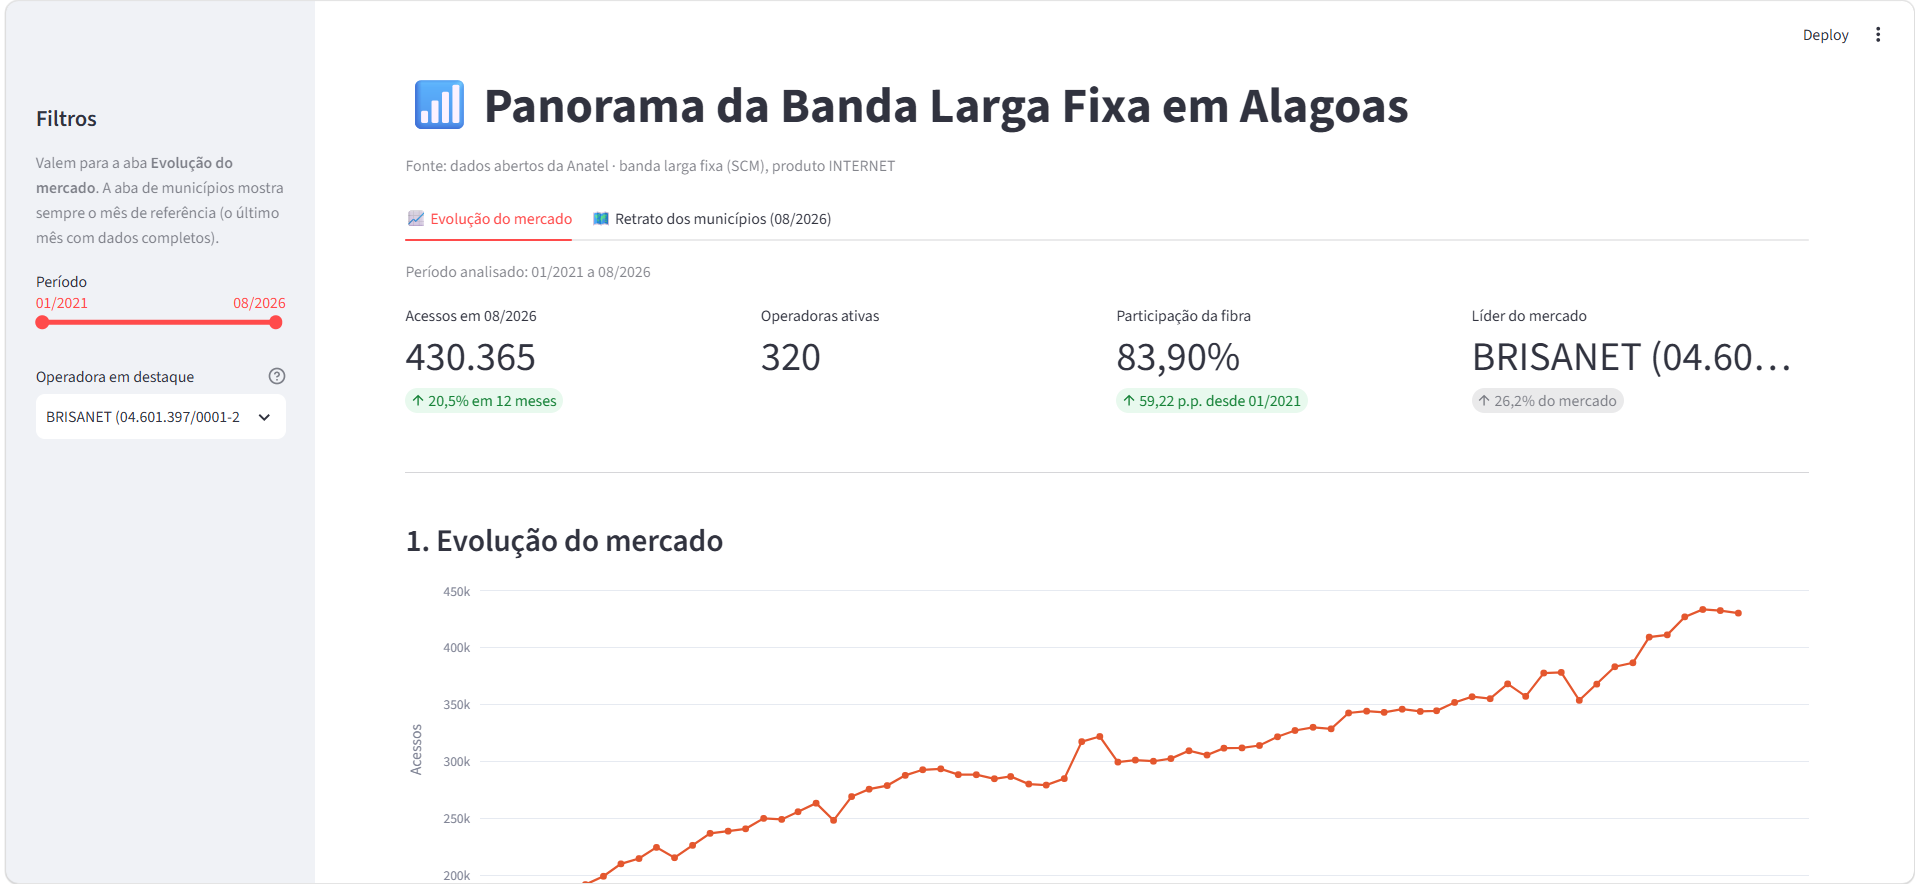
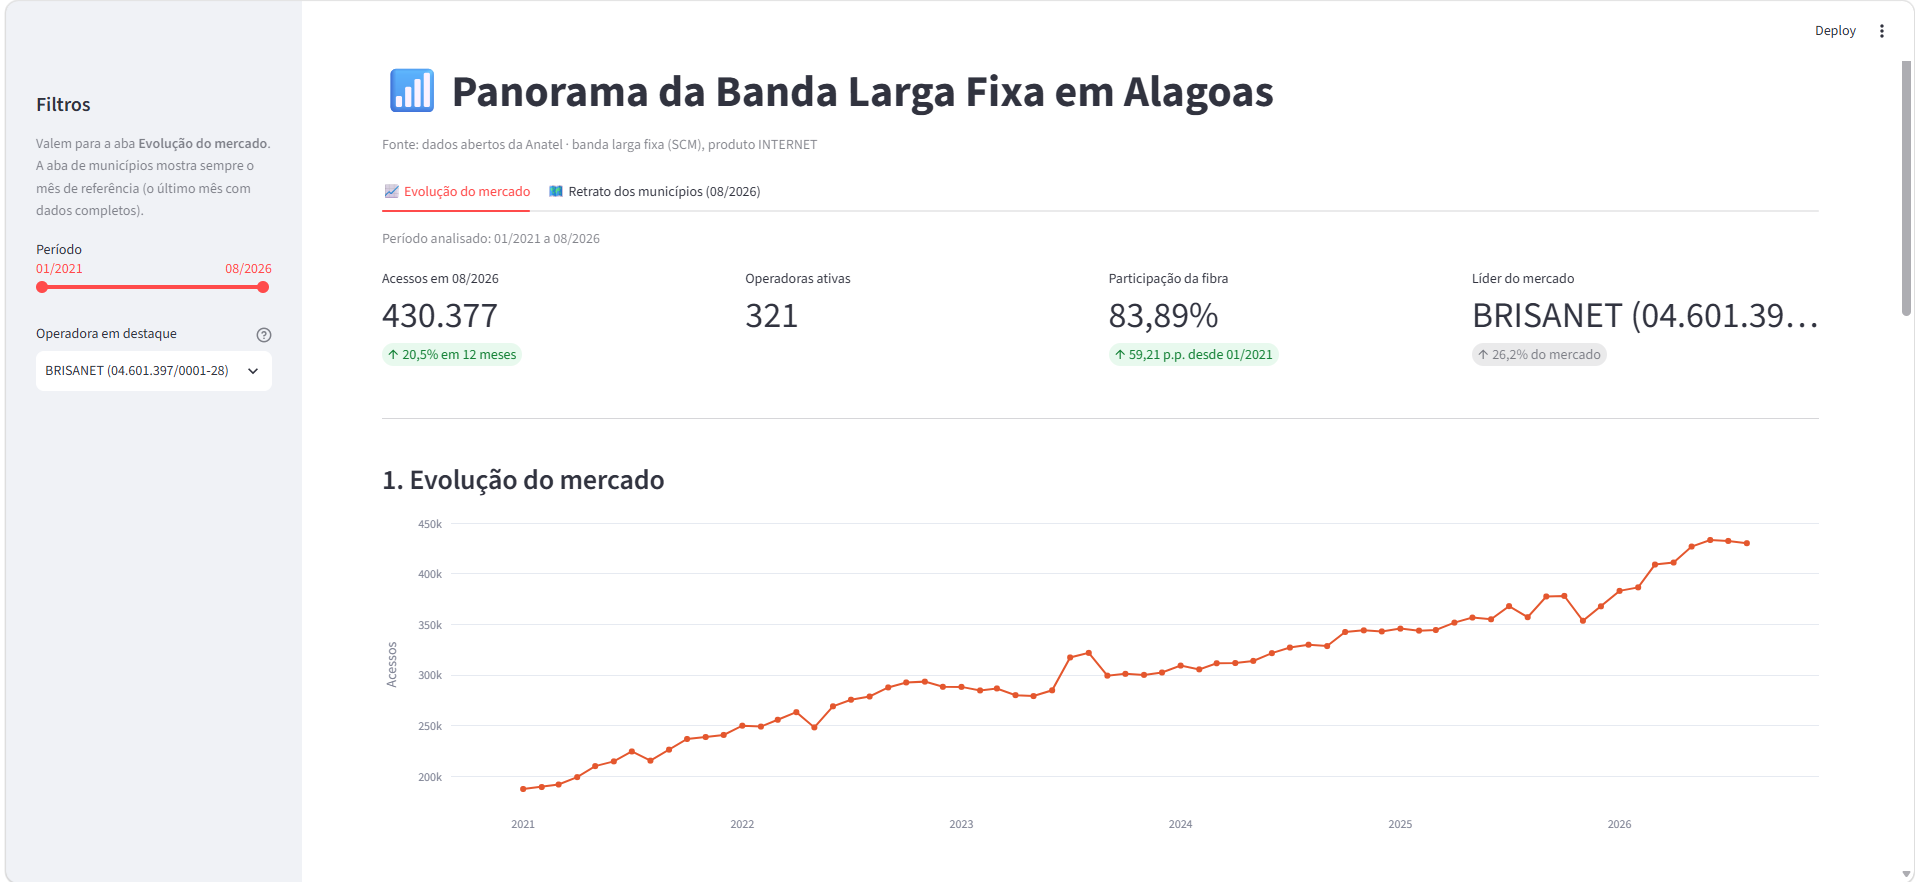
feat: script de validação e base atualizada (download de 16/11)

diff --git a/src/validar.py b/src/validar.py
@@ -1,0 +1,109 @@
+"""Roda todas as validações do 03_validacoes.sql e salva um relatório.
+
+Uso (na raiz do projeto, depois do pipeline):
+    python -m src.validar
+
+Para cada teste, o relatório mostra o número, o resultado esperado (escrito no
+comentário do .sql) e o resultado obtido no banco do .env. A comparação é feita
+por quem lê: os esperados são texto livre, não valores automáticos.
+O relatório é salvo em data/validacoes_<banco>_<data>.txt.
+"""
+import re
+import sys
+import time
+from datetime import datetime
+from pathlib import Path
+
+import pandas as pd
+
+from src.db import get_engine
+
+ROOT = Path(__file__).resolve().parent.parent
+VALIDACOES = ROOT / "sql" / "03_validacoes.sql"
+SAIDA = ROOT / "data"
+MAX_LINHAS = 15        # linhas mostradas por teste
+LIMITE_SEGUNDOS = 120  # um teste mais lento que isso é interrompido e vira ERRO
+
+ROTULO = re.compile(r"^--\s*(\d+\.\d+)\s+(.*)")
+
+
+def ler_testes(caminho: Path) -> list[dict]:
+    """Separa o arquivo em testes: rótulo, comentários (com o esperado) e a consulta.
+
+    Um teste começa numa linha "-- N.N título" e termina na linha cuja parte de
+    código acaba em ";". Comentários depois da consulta (como o cabeçalho da
+    próxima seção) não entram no teste. Comandos USE são ignorados: o banco
+    vem do .env.
+    """
+    testes, atual, codigo = [], None, []
+    for linha in caminho.read_text(encoding="utf-8").splitlines():
+        limpa = linha.strip()
+        rotulo = ROTULO.match(limpa)
+        if rotulo:
+            atual = {"id": rotulo.group(1), "titulo": rotulo.group(2), "notas": []}
+            codigo = []
+            continue
+        if limpa.startswith("--"):
+            if atual is not None and not codigo:
+                atual["notas"].append(limpa.lstrip("- ").rstrip())
+            continue
+        if not limpa or limpa.upper().startswith("USE "):
+            continue
+        codigo.append(linha)
+        if limpa.split("--")[0].rstrip().endswith(";") and atual is not None:
+            testes.append({**atual, "sql": "\n".join(codigo).rstrip().rstrip(";")})
+            atual, codigo = None, []
+    return testes
+
+
+def rodar(testes: list[dict]) -> tuple[str, str]:
+    """Executa cada teste e devolve o nome do banco e o texto do relatório."""
+    engine = get_engine()
+    conexao = engine.raw_connection()   # cursor direto: o % do LIKE não vira parâmetro
+    partes = []
+    try:
+        cursor = conexao.cursor()
+        cursor.execute("SELECT DATABASE()")
+        banco = cursor.fetchone()[0]
+        cursor.execute(f"SET SESSION max_execution_time = {LIMITE_SEGUNDOS * 1000}")
+        for i, t in enumerate(testes, start=1):
+            print(f"[{i:2}/{len(testes)}] {t['id']:5} {t['titulo'][:50]:50}", end=" ", flush=True)
+            inicio = time.perf_counter()
+            partes.append(f"\n{'=' * 70}\n{t['id']} {t['titulo']}")
+            partes.extend(f"   {n}" for n in t["notas"] if n)
+            partes.append("-" * 70)
+            try:
+                cursor.execute(t["sql"])
+                colunas = [c[0] for c in cursor.description]
+                df = pd.DataFrame(cursor.fetchall(), columns=colunas)
+                if df.empty:
+                    partes.append("(nenhuma linha)")
+                else:
+                    partes.append(df.head(MAX_LINHAS).to_string(index=False))
+                    if len(df) > MAX_LINHAS:
+                        partes.append(f"... mais {len(df) - MAX_LINHAS} linhas ({len(df)} no total)")
+            except Exception as erro:   # um teste quebrado não interrompe os outros
+                partes.append(f"ERRO: {erro}")
+                print("ERRO", end=" ")
+            print(f"{time.perf_counter() - inicio:5.1f}s")
+    finally:
+        conexao.close()
+    cabecalho = (f"Validações do banco {banco} em {datetime.now():%d/%m/%Y %H:%M}\n"
+                 f"{len(testes)} testes lidos de {VALIDACOES.name}")
+    return banco, cabecalho + "\n" + "\n".join(partes) + "\n"
+
+
+def main() -> None:
+    testes = ler_testes(VALIDACOES)
+    banco, relatorio = rodar(testes)
+    SAIDA.mkdir(exist_ok=True)
+    arquivo = SAIDA / f"validacoes_{banco}_{datetime.now():%Y%m%d}.txt"
+    arquivo.write_text(relatorio, encoding="utf-8")
+    erros = relatorio.count("\nERRO: ")
+    print(f"{len(testes)} testes rodados no banco {banco}, {erros} com erro.")
+    print(f"Relatório: {arquivo.relative_to(ROOT)}")
+    sys.exit(1 if erros else 0)
+
+
+if __name__ == "__main__":
+    main()

diff --git a/README.md b/README.md
@@ -8,11 +8,11 @@ Pipeline de dados de ponta a ponta com os dados abertos da Anatel: extração e 
 
 Retrato de **ago/2026**, o último mês com dados completos (o motivo está em [Qualidade e validação](#qualidade-e-validação)).
 
-- **O mercado cresce rápido:** 430.365 acessos de internet fixa em ago/2026, **20,46% a mais** que em ago/2025, distribuídos entre 320 operadoras ativas.
-- **A fibra virou o padrão:** a participação da fibra passou de **24,68%** em jan/2021 para **83,90%** em ago/2026.
+- **O mercado cresce rápido:** 430.377 acessos de internet fixa em ago/2026, **20,47% a mais** que em ago/2025, distribuídos entre 321 operadoras ativas.
+- **A fibra virou o padrão:** a participação da fibra passou de **24,68%** em jan/2021 para **83,89%** em ago/2026.
 - **Liderança regional e mercado pulverizado:** a Brisanet lidera com 26,25% dos acessos, seguida pela Claro (19,49%). O restante está dividido entre centenas de operadoras, a maioria pequenos provedores.
 - **Maceió concentra metade do estado:** são 221.538 acessos (51,48% do total). Mesmo com 137 operadoras, o mercado da capital é concentrado (HHI de 2.622). O município mais competitivo é Arapiraca.
-- **A Starlink ocupa as lacunas da fibra:** ela está em 98 dos 102 municípios. Nos 25 municípios onde é mais forte, tem em média 14,62% do mercado, e a fibra fica em 68,56%, contra cerca de 91% nos demais. O padrão se mantém dividindo os municípios em 4, 5 ou 6 grupos: é uma relação de limiar, concentrada nos lugares com pouca fibra.
+- **A Starlink ocupa as lacunas da fibra:** ela está em 98 dos 102 municípios. Nos 25 municípios onde é mais forte, tem em média 14,62% do mercado, e a fibra fica em 68,54%, contra cerca de 91% nos demais. O padrão se mantém dividindo os municípios em 4, 5 ou 6 grupos: é uma relação de limiar, concentrada nos lugares com pouca fibra.
 - **O crescimento acontece onde a fibra já domina:** nenhum dos 10 municípios que mais cresceram em 12 meses está entre as lacunas de fibra.
 
 > Os números descrevem associações nos dados reportados, não causas. Veja as [limitações](#limitações).
@@ -92,13 +92,20 @@ pip install -r requirements.txt
 mysql -u root -p -e "source sql/00_criar_banco.sql"
 ```
 
-**5. Configurar a conexão.** Copie o modelo e preencha com o seu usuário e a sua senha do MySQL:
+**5. Configurar a conexão.** Copie o modelo e edite o `.env`:
 
 ```powershell
 Copy-Item .env.example .env
+notepad .env
 ```
 
-**6. Rodar o pipeline.** Na primeira vez ele baixa e processa todos os arquivos da Anatel, o que pode levar alguns minutos:
+Preencha o seu usuário e a sua senha do MySQL e confira o `DB_NAME`: ele precisa ser o nome do banco criado no passo 4 (`banda_larga_al`, se você não mudou o script). O pipeline apaga e recria as tabelas do banco indicado ali, então um `DB_NAME` errado sobrescreve outro banco. Salve o arquivo e confira:
+
+```powershell
+Select-String "DB_NAME" .env
+```
+
+**6. Rodar o pipeline.** Na primeira vez ele baixa e processa todos os arquivos da Anatel (cerca de 3 minutos numa conexão rápida):
 
 ```powershell
 python -m src.pipeline             # reaproveita o tratamento salvo, se existir
@@ -111,7 +118,11 @@ python -m src.pipeline --refazer   # reprocessa os CSVs do zero
 streamlit run app/app.py
 ```
 
-**8. (Opcional) Conferir os resultados.** Rode as consultas do `sql/03_validacoes.sql` no seu cliente MySQL. Cada teste traz, num comentário, o resultado esperado com a base atual.
+**8. (Opcional) Conferir os resultados.** Roda todos os testes do `sql/03_validacoes.sql` e salva um relatório em `data/`, com o resultado esperado e o obtido lado a lado:
+
+```powershell
+python -m src.validar
+```
 
 ## Estrutura de pastas
 
@@ -133,7 +144,8 @@ panorama-banda-larga-al/
 │   ├── extract.py             # download e extração do .zip
 │   ├── transform.py           # leitura, limpeza e montagem das tabelas
 │   ├── load.py                # criação das tabelas, carga e views
-│   └── pipeline.py            # orquestra as três etapas
+│   ├── pipeline.py            # orquestra as três etapas
+│   └── validar.py             # roda as validações e gera o relatório
 ├── .env.example               # modelo das variáveis de conexão
 └── requirements.txt           # dependências com versões fixas
 ```
@@ -209,25 +221,25 @@ Algumas técnicas usadas: funções de janela (`LAG`, `RANK`, `ROW_NUMBER`, `SUM
 
 O arquivo `sql/03_validacoes.sql` reúne os testes de cada view. Cada teste tem o resultado esperado escrito ao lado, então qualquer mudança no código que altere um número aparece na hora. Os principais tipos de teste:
 
-- **Reconciliação:** o total de cada view bate com o total do estado no mesmo mês (por exemplo, a soma dos 102 municípios dá os mesmos 430.365 acessos da evolução mensal).
+- **Reconciliação:** o total de cada view bate com o total do estado no mesmo mês (por exemplo, a soma dos 102 municípios dá os mesmos 430.377 acessos da evolução mensal).
 - **Prova dos 100%:** as participações de cada mês somam 100%, com diferença apenas de arredondamento.
 - **Integridade:** nenhuma linha da fato sem município ou sem operadora, e nenhum acesso negativo.
 - **Casos conhecidos:** uma operadora estável (a Claro) aparece sem buracos de reporte, e um município com uma única operadora teria HHI de 10.000.
 
 ### O mês de referência
 
-O mês mais recente da base costuma vir incompleto, porque parte das operadoras reporta com atraso. Em set/2026, por exemplo, faltavam operadoras que somavam cerca de 48 mil acessos, e o total parecia uma queda que não existiu.
+O mês mais recente da base costuma vir incompleto, porque parte das operadoras reporta com atraso. Em set/2026, por exemplo, ainda faltavam cerca de 20 operadoras, e o total parecia uma queda que não existiu. Isso se confirmou na prática: entre dois downloads feitos com duas semanas de diferença, a Anatel acrescentou cerca de 20 mil acessos a set/2026, enquanto ago/2026 mudou só 12 acessos.
 
 Por isso a view `vw_mes_referencia` escolhe o último mês em que o número de operadoras que reportaram é pelo menos **95% da média dos 3 meses anteriores**. Com a base atual, o mês escolhido é ago/2026. Os retratos do dashboard (municípios, Starlink, crescimento) usam esse mês automaticamente, e a regra se ajusta sozinha quando a Anatel publica dados novos.
 
 ### Qualidade do reporte
 
-Das 535 operadoras com algum registro de internet até ago/2026, 183 reportam todos os meses, 137 têm meses faltando e 215 deixaram de aparecer. Esse último grupo mistura empresas que encerraram as atividades, foram adquiridas ou mudaram de CNPJ, então não equivale a subnotificação.
+Das 535 operadoras com algum registro de internet até ago/2026, 184 reportam todos os meses, 137 têm meses faltando e 214 deixaram de aparecer. Esse último grupo mistura empresas que encerraram as atividades, foram adquiridas ou mudaram de CNPJ, então não equivale a subnotificação.
 
 ## Limitações
 
 - **Dados reportados:** os acessos são os que as operadoras informam à Anatel. Há reporte intermitente e subnotificação, principalmente entre pequenos provedores.
-- **Mês preliminar:** o último mês publicado costuma estar incompleto. As análises usam o mês de referência, mas o histórico até ele também pode ser revisado pela Anatel.
+- **Mês preliminar e revisões:** o último mês publicado costuma estar incompleto, por isso as análises usam o mês de referência. Além disso, a Anatel revisa meses passados quando operadoras reportam com atraso, então um novo download pode mudar levemente os números históricos.
 - **Porte atual:** a classificação de porte guarda só a situação mais recente de cada operadora, então os meses antigos usam o porte de hoje. "Pequeno porte" é a classificação regulatória da Anatel (menos de 5% do mercado nacional) e inclui operadoras grandes no estado, como a Brisanet.
 - **Uma empresa, vários CNPJs:** as análises são por CNPJ. Empresas como a Claro aparecem divididas, e a soma do grupo é um pouco maior que a de cada CNPJ.
 - **Crescimento percentual:** crescimentos acima de 100% em 12 meses podem vir de operadoras que passaram a reportar, e não só de clientes novos. Os rankings de crescimento usam um corte mínimo de 500 acessos para não destacar municípios muito pequenos.
@@ -242,6 +254,6 @@ Das 535 operadoras com algum registro de internet até ago/2026, 183 reportam to
 
 ## Fonte e autor
 
-**Dados:** [Anatel, dados abertos de acessos de banda larga fixa](https://www.anatel.gov.br/dadosabertos/paineis_de_dados/acessos/acessos_banda_larga_fixa.zip), recorte de Alagoas de jan/2021 a set/2026.
+**Dados:** [Anatel, dados abertos de acessos de banda larga fixa](https://www.anatel.gov.br/dadosabertos/paineis_de_dados/acessos/acessos_banda_larga_fixa.zip), recorte de Alagoas de jan/2021 a set/2026, baixados em 16/11/2026.
 
 **Autor:** Gabriel Frederico de Araujo · [LinkedIn](https://www.linkedin.com/in/gabriel-frederico-de-araujo-26053a385)

diff --git a/docs/dicionario_dados.md b/docs/dicionario_dados.md
@@ -30,6 +30,6 @@
 - Antes de 2021 a base tem 13 colunas e outra metodologia; o projeto começa em 2021.
 - Algumas prestadoras reportam de forma intermitente (aparecem em alguns meses e somem em outros).
 - O zip também traz `Densidade_Banda_Larga_Fixa.csv` (acessos por 100 habitantes, por município).
-- O mês mais recente costuma vir incompleto: parte das operadoras reporta com atraso. Em set/2026 faltavam 25 operadoras (cerca de 48 mil acessos), por isso os retratos usam o mês de referência.
+- O mês mais recente costuma vir incompleto: parte das operadoras reporta com atraso. No download de 16/11/2026, set/2026 ainda tinha cerca de 20 operadoras a menos que a média dos meses anteriores, por isso os retratos usam o mês de referência.
 - Uma mesma empresa pode ter mais de um CNPJ (ex.: Claro). As análises por CNPJ mostram o grupo dividido.
 - “Pequeno Porte” é a classificação regulatória da Anatel (PPP: menos de 5% de participação nacional) e inclui operadoras grandes no estado, como a Brisanet.
